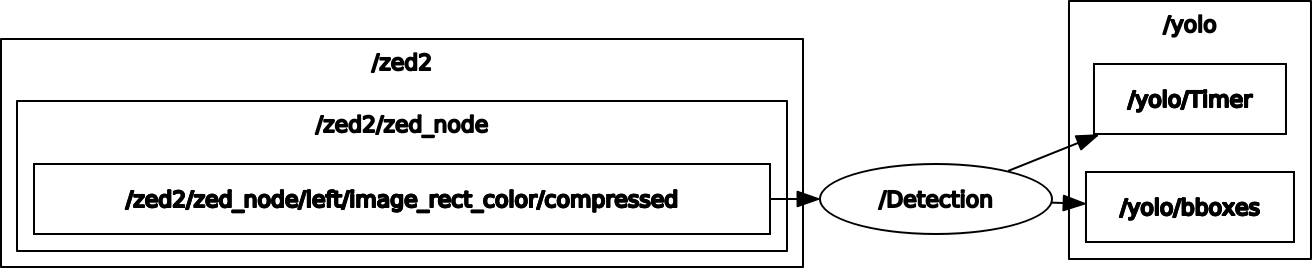
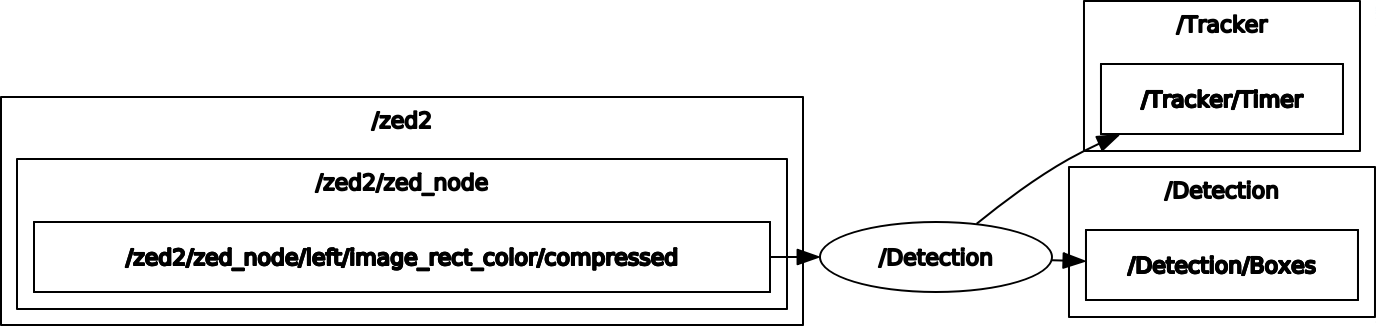
Topic name changes

diff --git a/src/segmentation/src/DBSCAN_wait.py b/src/segmentation/src/DBSCAN_wait.py
@@ -13,7 +13,7 @@ from segmentation_utils import *
 class Cloud_segmentation:
     def __init__(self):
         print("[INFO] Initializing ROS...")
-        rospy.init_node("Segmentation", anonymous=True)
+        rospy.init_node("Segmentation")
 
         print("[INFO] Loading modules...")
         self.bridge = CvBridge()
@@ -26,27 +26,24 @@ class Cloud_segmentation:
 
 
         print("[INFO] Initializing ROS publishers...")
-        self.bboxes_pub = rospy.Publisher("/yolo/Segbboxes",Detection2DArray, queue_size=1) #Bboxes for object_handler 
-        self.images_pub = rospy.Publisher("/yolo/Segimages",Detection2DArray, queue_size=1) #Bboxes with images for display
+        self.bboxes_pub = rospy.Publisher("/Segmentation/Boxes",Detection2DArray, queue_size=1) #Bboxes for object_handler 
+        #self.images_pub = rospy.Publisher("/yolo/Segimages",Detection2DArray, queue_size=1) #Bboxes with images for display
 
         print("[INFO] Initialize ROS Subscribers...")
+        #rospy.Subscriber("/Detection/Boxes",Detection2DArray)
         #rospy.Subscriber("yolo/CloudImage",Image,self.callback_cpp,queue_size=1)
-        #rospy.Subscriber("/zed2/zed_node/point_cloud/cloud_registered",PointCloud2,self.callback_pyt,queue_size=1)
-        cloud_sub = message_filters.Subscriber("/yolo/CloudImage", Image, queue_size=1)
-        timer_sub = message_filters.Subscriber("/yolo/Timer", TimeReference, queue_size=1)
+        #rospy.Subscriber("/zed2/zed_node/point_cloud/cloud_registered",PointCloud2)#,self.callback_pyt,queue_size=1)
+        cloud_sub = message_filters.Subscriber("/Pc2ToImage/Cloud", Image, queue_size=1)
+        timer_sub = message_filters.Subscriber("/Tracker/Timer", TimeReference, queue_size=1)
 
         print("[INFO] Loading complete")
         mf = message_filters.TimeSynchronizer([cloud_sub,timer_sub],queue_size=15)
         mf.registerCallback(self.callback_timer)
 
-
-        
-
-        print("[INFO] Loading complete")
         self.callback_segmentation()
 
     def callback_segmentation(self):
-        boxes = rospy.wait_for_message("/yolo/bboxes",Detection2DArray)
+        boxes = rospy.wait_for_message("/Detection/Boxes",Detection2DArray)
         time1 = rospy.Time.now().to_sec()
         # Making sure that time on pc_list and cv_image is the same as time on the bboxes
         image = False

diff --git a/src/testsrc/visionv2/src/Tracker_no_yolo.py b/src/testsrc/visionv2/src/Tracker_no_yolo.py
@@ -27,7 +27,7 @@ from Object_handler import Object_handler
 class object_tracker:
     def __init__(self):
         print("[INFO] Initializing ROS...")
-        rospy.init_node('object_tracker', anonymous=True)
+        rospy.init_node('Object_Tracker')
 
         print("[INFO] Loading modules...")
         classNum        = len(list(read_class_names(YOLO_COCO_CLASSES).values()))
@@ -40,19 +40,17 @@ class object_tracker:
         self.Target_UID = []
 
         print("[INFO] Initialize ROS publisher...")
-        self.Tracking_list = rospy.Publisher("/yolo/Trackedbboxes", Detection2DArray, queue_size=1)
-        self.pose_pub = rospy.Publisher('/Published_pose', PoseStamped, queue_size=1)
+        self.Tracking_list = rospy.Publisher("/Object_Tracker/boxes", Detection2DArray, queue_size=1)
+        self.pose_pub = rospy.Publisher('/Object_Tracker/Published_pose', PoseStamped, queue_size=1)
 
         print("[INFO] Initialize ROS Subscribers...")
         #rospy.Subscriber("/yolo/Segbboxes", Detection2DArray, self.callback, queue_size=1)
-        boxes_sub = message_filters.Subscriber("/yolo/Segbboxes", Detection2DArray, queue_size=1)
-        timer_sub = message_filters.Subscriber("/yolo/Timer", TimeReference, queue_size=1)
+        boxes_sub = message_filters.Subscriber("/Segmentation/Boxes", Detection2DArray, queue_size=1)
+        timer_sub = message_filters.Subscriber("/Tracker/Timer", TimeReference, queue_size=1)
         print("[INFO] Loading complete")
 
         mf = message_filters.TimeSynchronizer([boxes_sub,timer_sub],queue_size=40)
         mf.registerCallback(self.callback)
-
-        print("[INFO] Loading complete")
 
     def callback(self,boxes,timer):
         Time = float("%.6f" %  boxes.header.stamp.to_sec())

diff --git a/src/yolo/src/yolo.py b/src/yolo/src/yolo.py
@@ -28,11 +28,11 @@ class object_detector:
 
         print("[INFO] Initialize ROS publishers...")
         # Create Topics to publish
-        self.boxes_pub = rospy.Publisher("/yolo/bboxes",Detection2DArray, queue_size=1)
-        self.timer_pub = rospy.Publisher("/yolo/Timer",TimeReference, queue_size=1)
+        self.boxes_pub = rospy.Publisher("/Detection/Boxes",Detection2DArray, queue_size=1)
+        self.timer_pub = rospy.Publisher("/Tracker/Timer",TimeReference, queue_size=1)
 
         print("[INFO] Initialize ROS Subscribers...")
-        rospy.Subscriber("/zed2/zed_node/left/image_rect_color/compressed",CompressedImage)
+        #rospy.Subscriber("/zed2/zed_node/left/image_rect_color/compressed",CompressedImage)
         # Create subscriptions
 
         print("[INFO] Loading complete")

diff --git a/src/pcl_handler/src/cloudsubscriber.cpp b/src/pcl_handler/src/cloudsubscriber.cpp
@@ -45,7 +45,7 @@ public:
         }
         pub_.publish (image_);
     }
-    PointCloudImage () : sub_topic_("/zed2/zed_node/point_cloud/cloud_registered"),pub_topic_("/yolo/CloudImage")
+    PointCloudImage () : sub_topic_("/zed2/zed_node/point_cloud/cloud_registered"),pub_topic_("/Pc2ToImage/Cloud")
     {
         sub_ = nh_.subscribe (sub_topic_, 1, &PointCloudImage::callback_cloud, this);
         pub_ = nh_.advertise<sensor_msgs::Image > (pub_topic_, 1);
